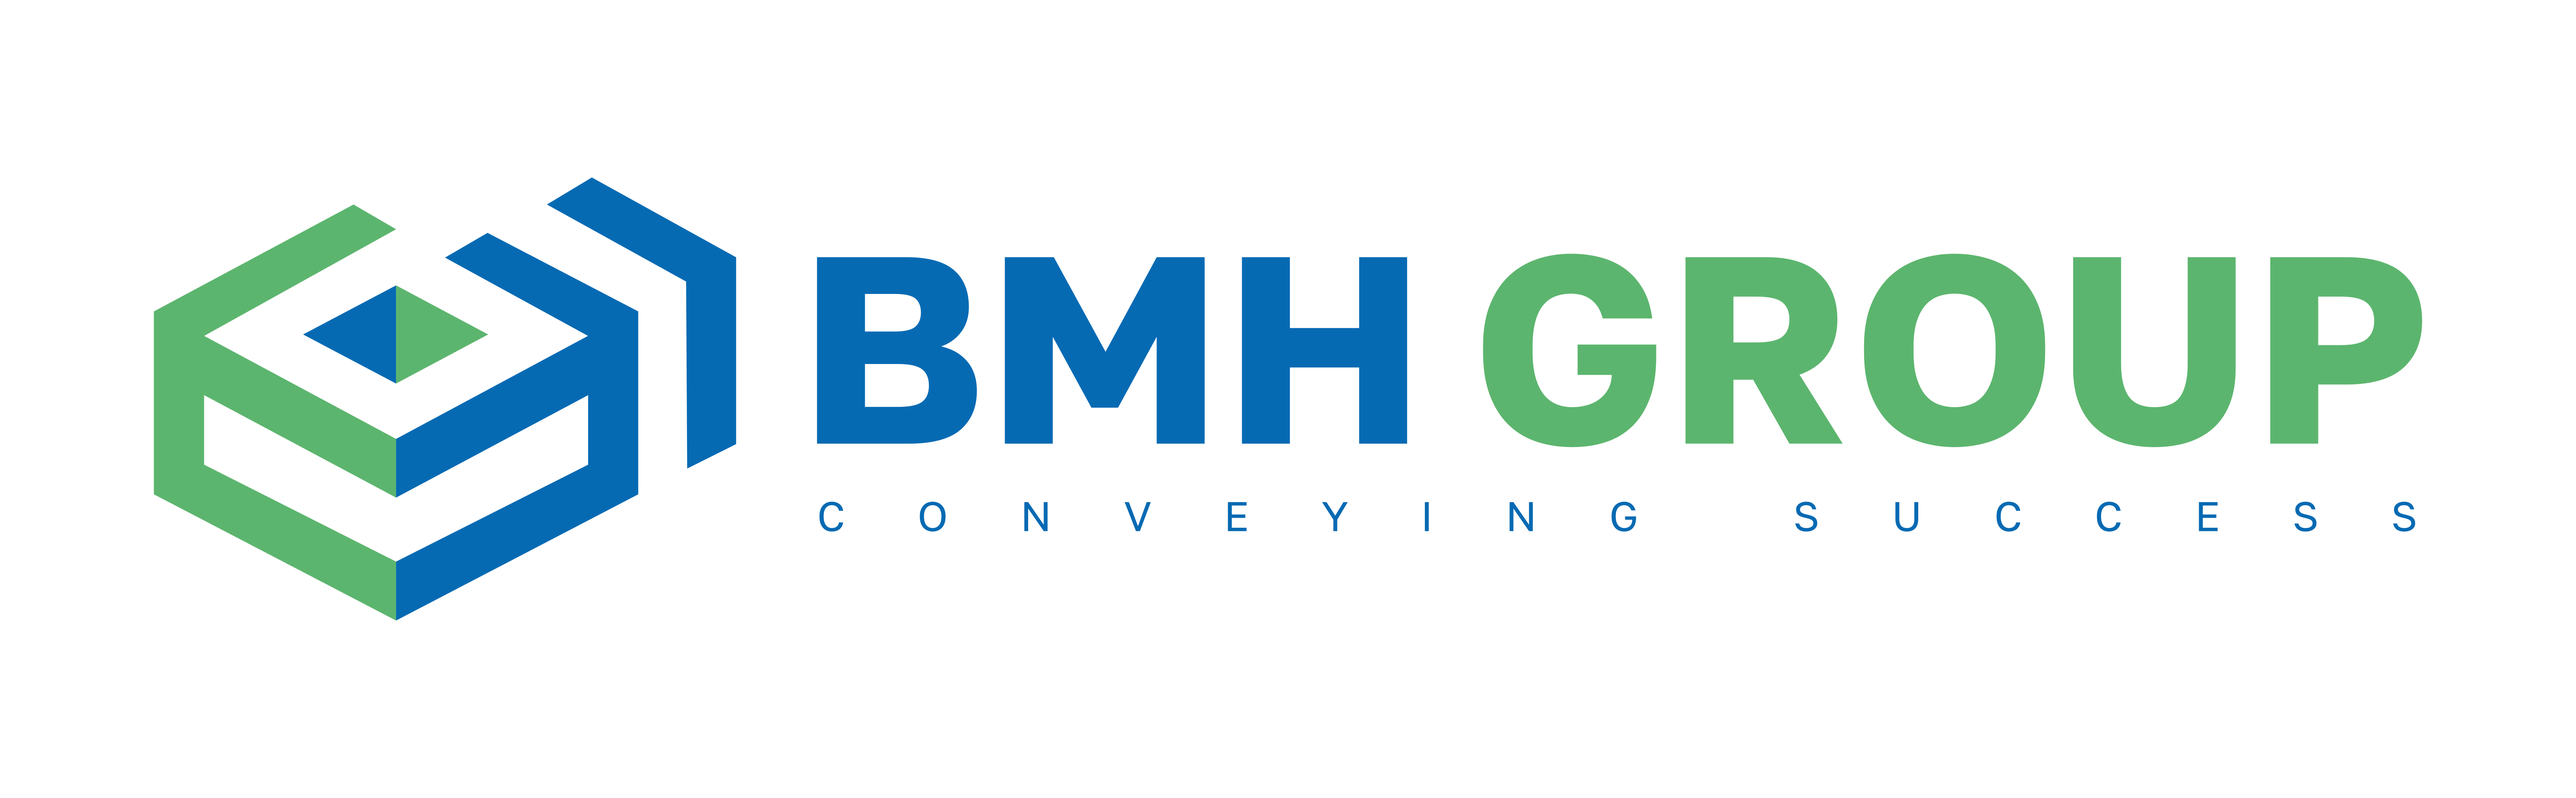
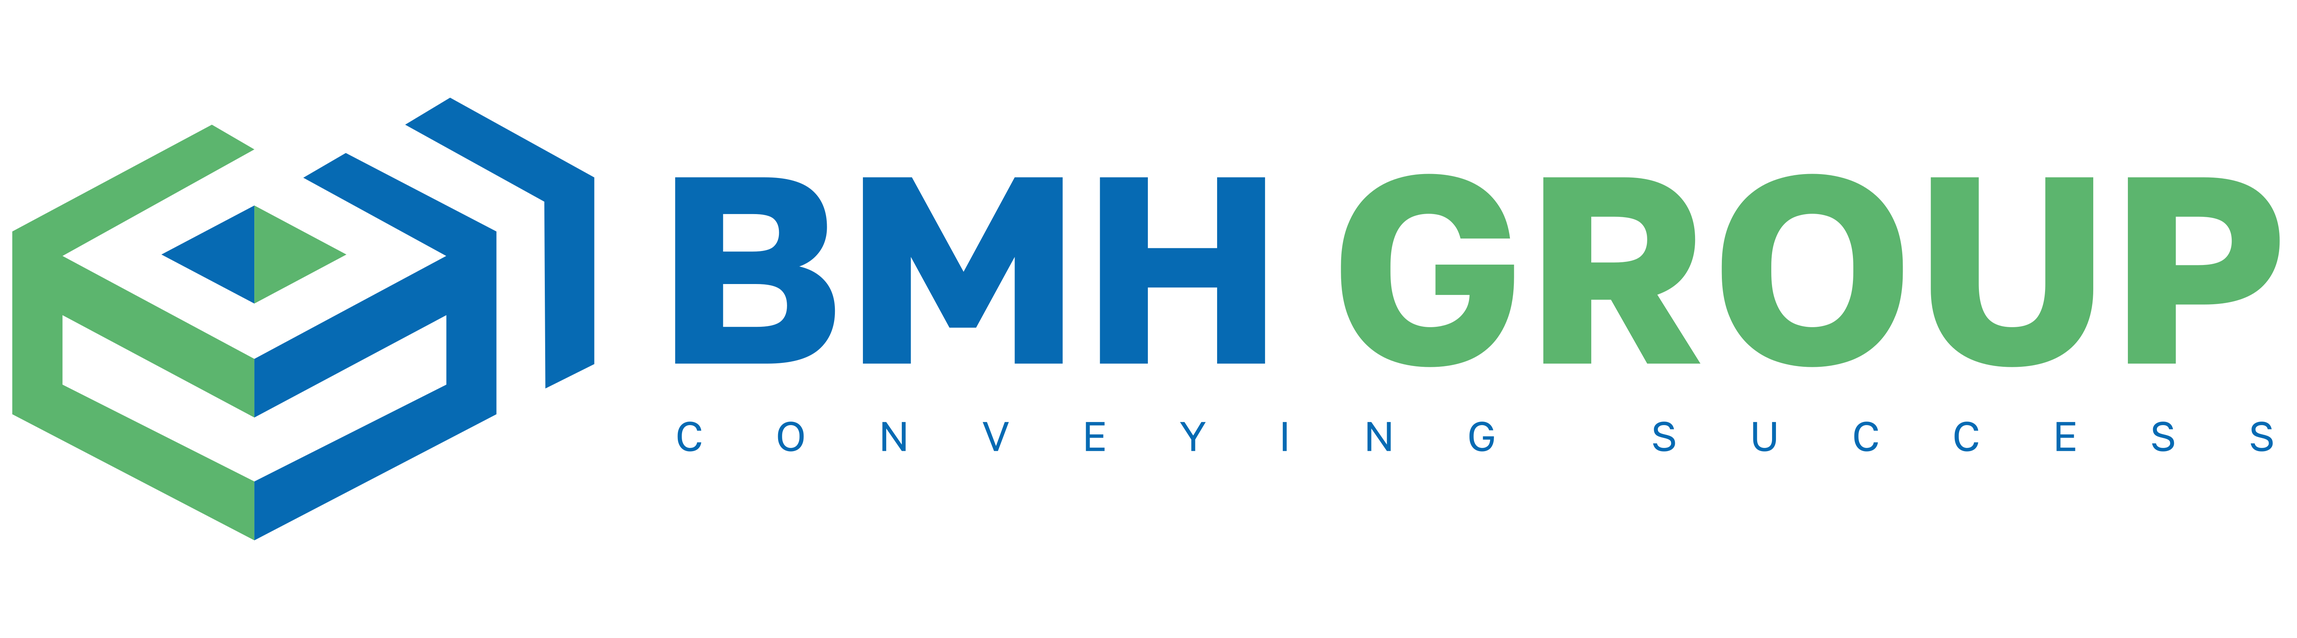
Update

diff --git a/index.html b/index.html
@@ -75,7 +75,7 @@
 		</tr>
 		<tr>
 			<td>
-				<img style="width:100%;max-width:480px;margin-left: -20px;" src="img/bmh-group.png" alt="BMH-Group">
+				<img style="width:100%;max-width:480px;" src="img/bmh-group.png" alt="BMH-Group">
 			</td>
 		</tr>
 		<tr>
